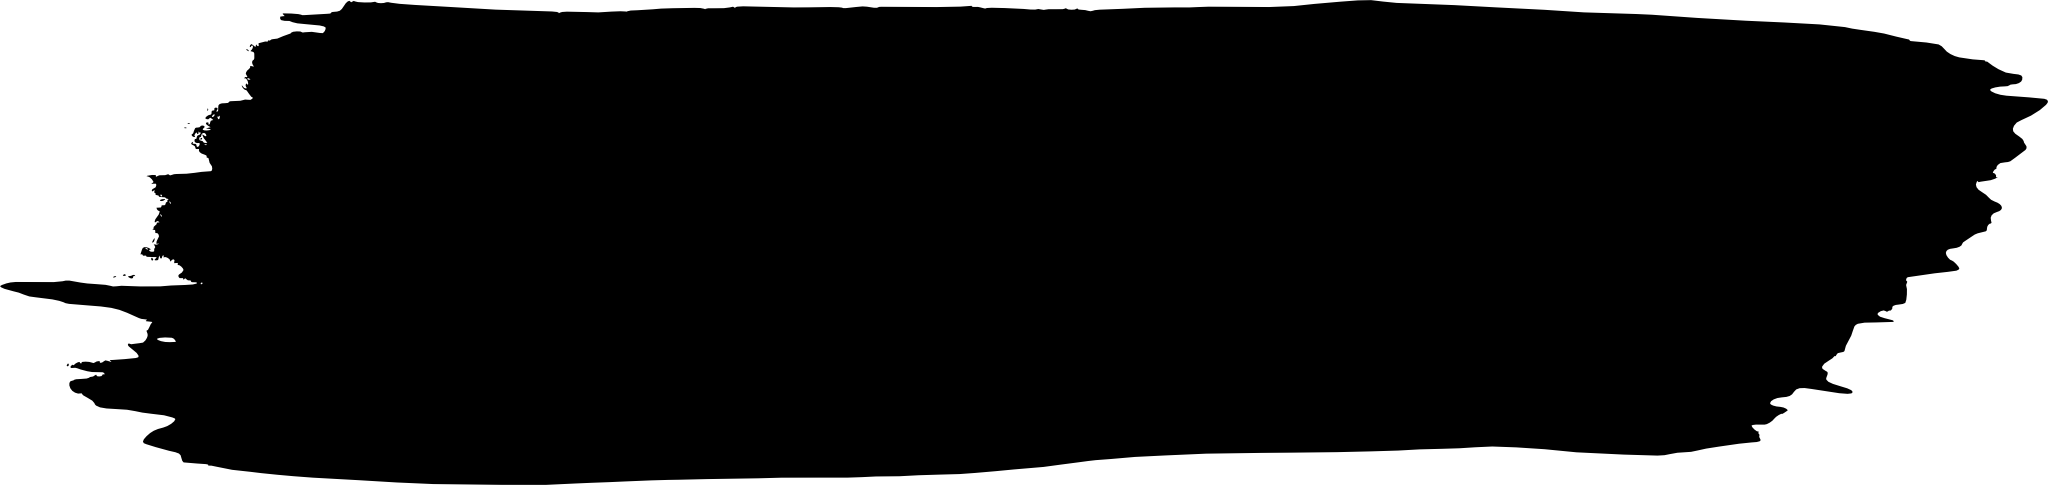
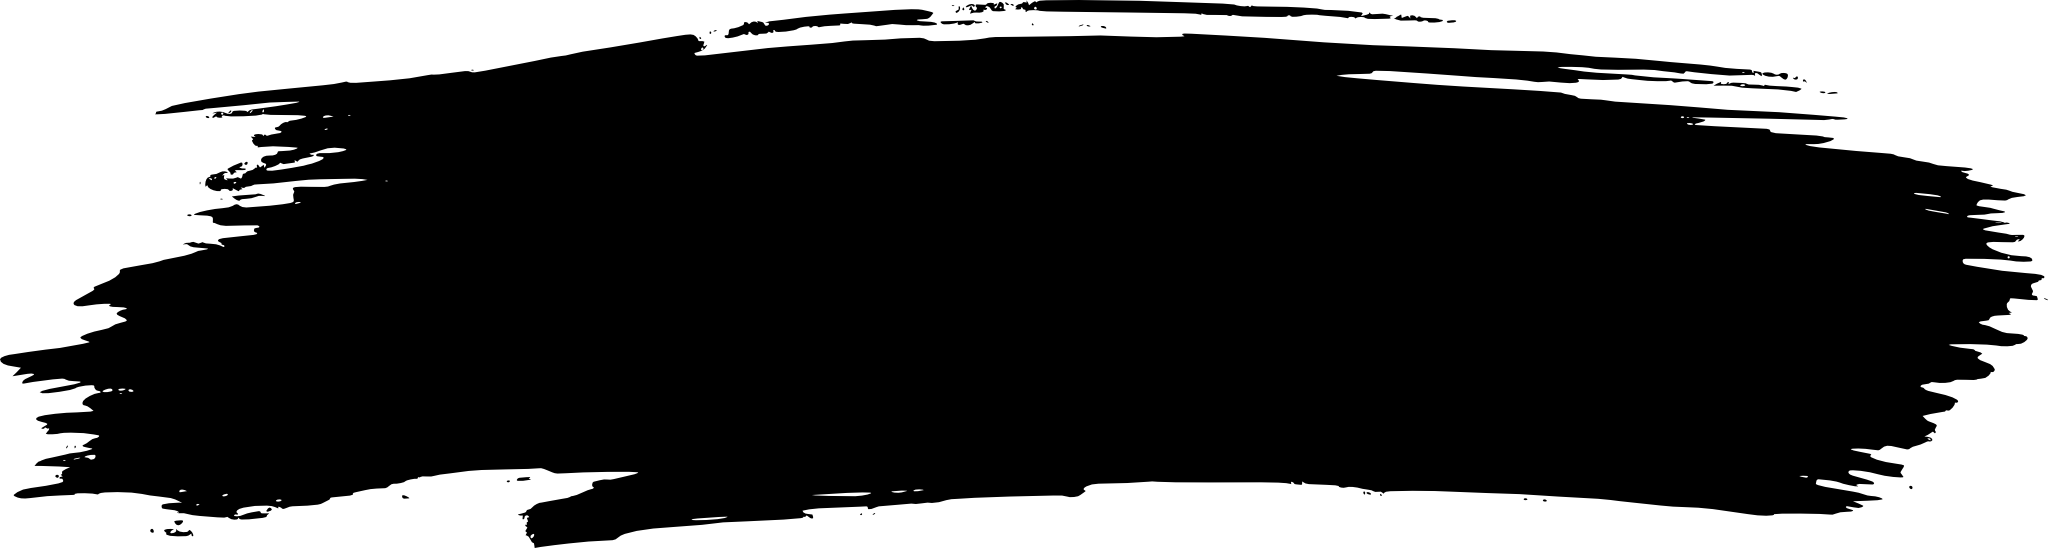
Unwanted Images Deleted

Changed region(s): [[0.0, 0.0, 1.0, 1.0]]

diff --git a/css/styles.css b/css/styles.css
@@ -43,7 +43,7 @@
 
 body {
     font-family: fontregular;
-    background-image: url('../images/background2.jpg');
+    background-image: url('../images/background.jpg');
 
     /*background-image: linear-gradient(to right top, #ffffff, #e0d6ff, #c5acff, #ae80ff, #994ff9);*/
     /*background-image: -webkit-linear-gradient(to right top, #ffffff, #e0d6ff, #c5acff, #ae80ff, #994ff9);*/
@@ -125,7 +125,7 @@ html {
 }
 
 .progress-bar {
-    background-image: url("../images/background2.jpg");
+    background-image: url("../images/background.jpg");
 }
 
 .progress {
@@ -213,7 +213,7 @@ html {
 }
 
 .highlight {
-    background: url('../images/brushstroke2.png');
+    background: url('../images/brushstroke.png');
     background-repeat: no-repeat;
     background-size: 100% 95%;
     padding: 8px 0;
